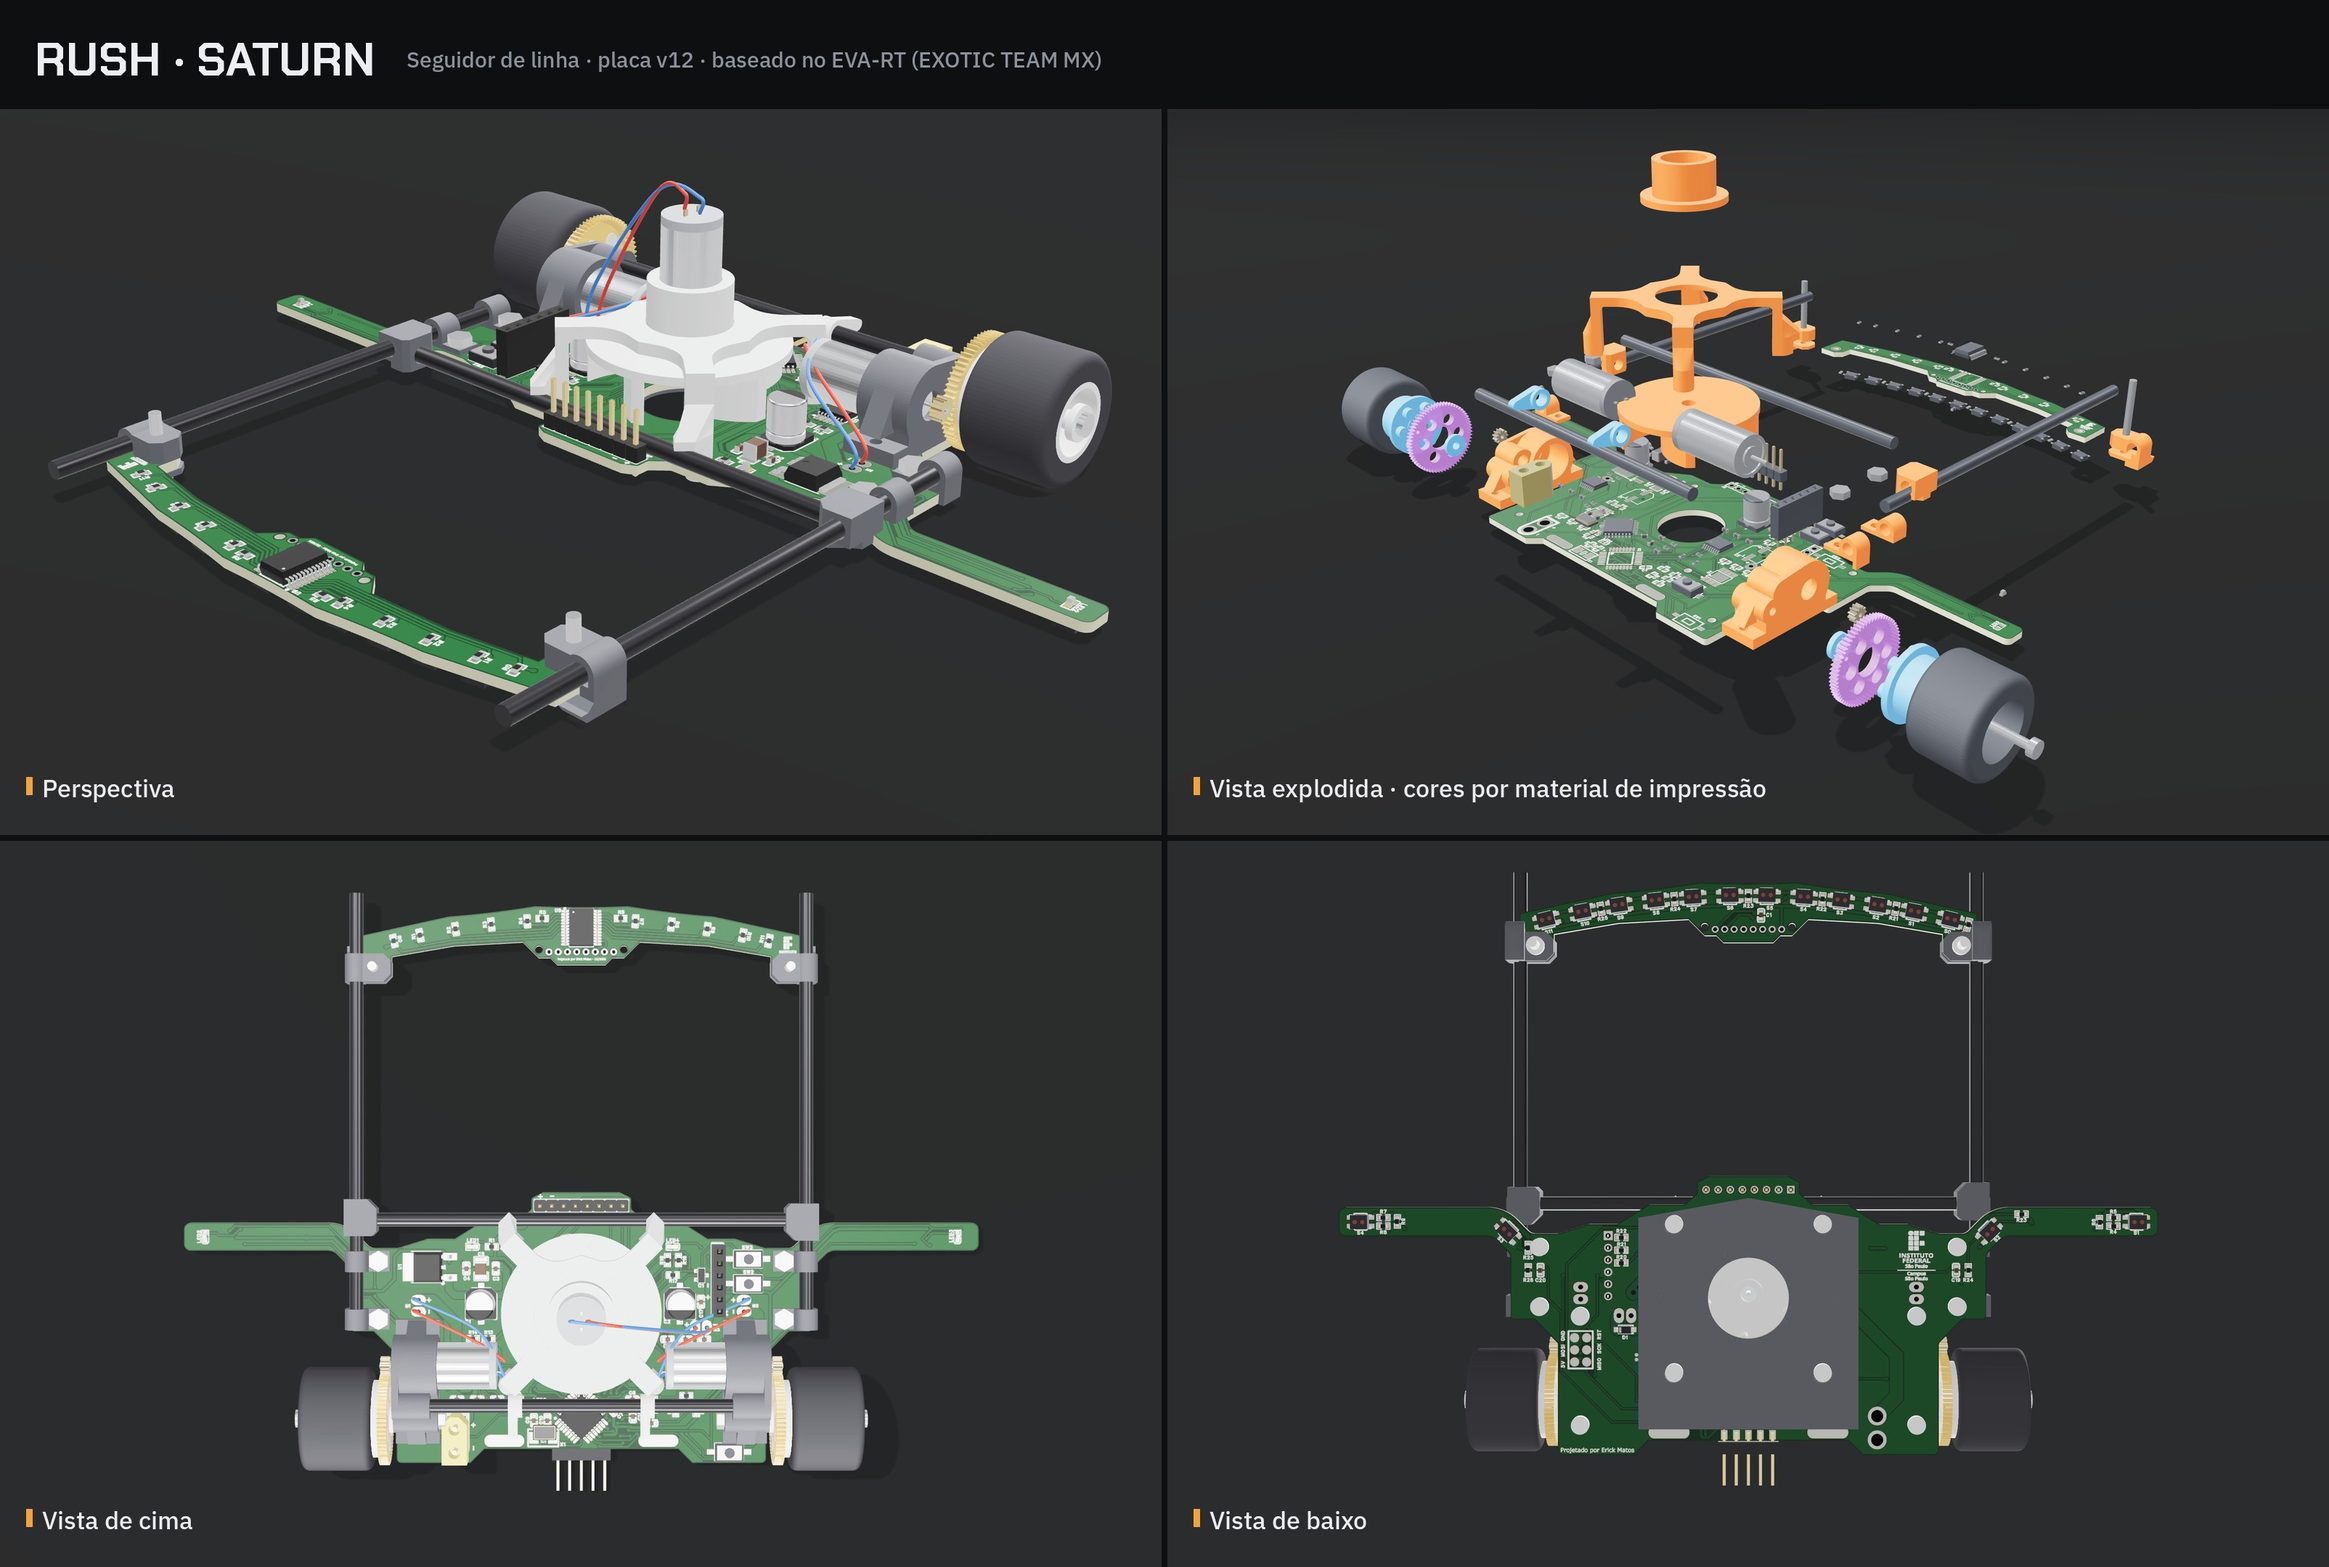
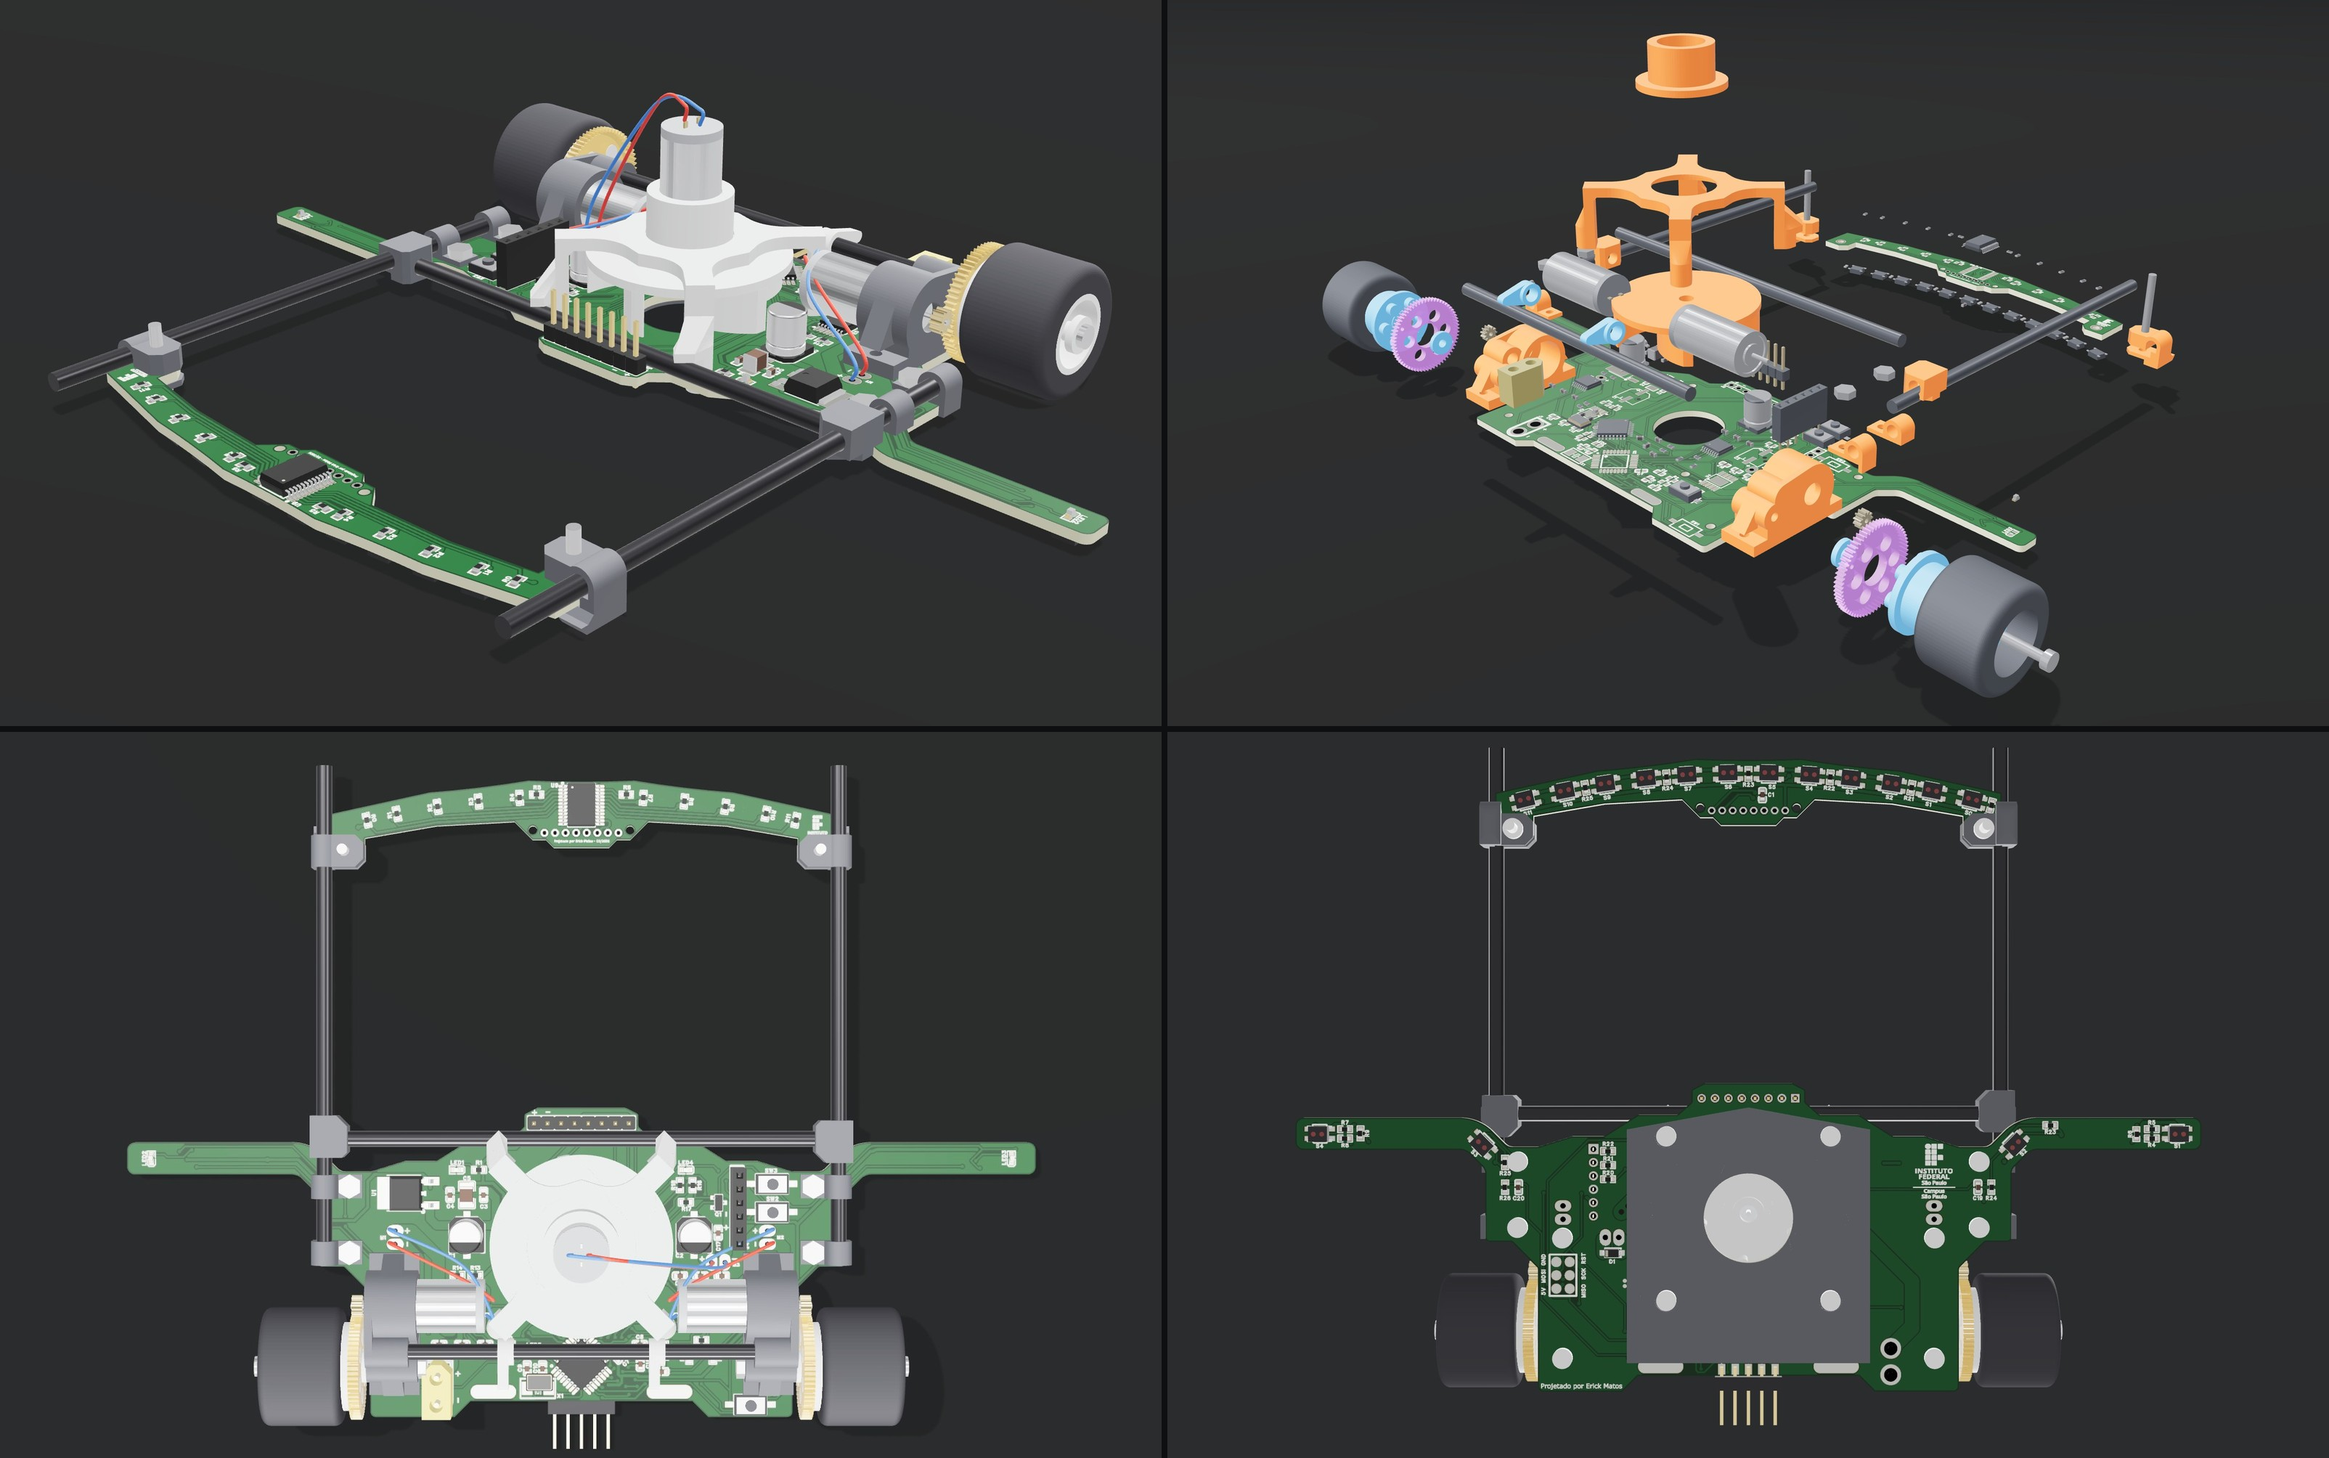
Preview 3D: imagem das 4 vistas sem título e sem rótulos
Claude-Session: https://claude.ai/code/session_01LzVZu2gWiRWn8RMvBBjQSN

diff --git a/mecânica/preview_3d/README.md b/mecânica/preview_3d/README.md
@@ -7,7 +7,7 @@ Modelo 3D do robô montado, para mostrar o projeto (professor, divulgação). **
 | `rush_saturn_v12.glb` | modelo completo (glTF binário, em metros, +y para cima). Abre no Visualizador 3D do Windows, no Blender ou em qualquer visualizador de glTF |
 | `index.html` + `pecas.json` | visualizador interativo: girar, vistas, lista de peças, vista explodida e cores por material. Precisa de um servidor local (`python3 -m http.server` dentro desta pasta e abrir `http://localhost:8000`); aberto direto do disco, o navegador bloqueia a leitura do `.glb` |
 | `vista_*.jpg` | figuras tiradas do visualizador |
-| `rush_saturn_4_vistas.jpg` | as 4 vistas numa imagem só (perspectiva, explodida por material, cima e baixo) |
+| `rush_saturn_4_vistas.jpg` | as 4 vistas numa imagem só, sem textos (perspectiva, explodida por material, cima e baixo) |
 
 ## O que entra
 - Base v12 e barra V1 com a textura tirada do Gerber (cobre, máscara verde, serigrafia, furos). A cor da máscara é a padrão da JLC (o pedido não especifica outra).
